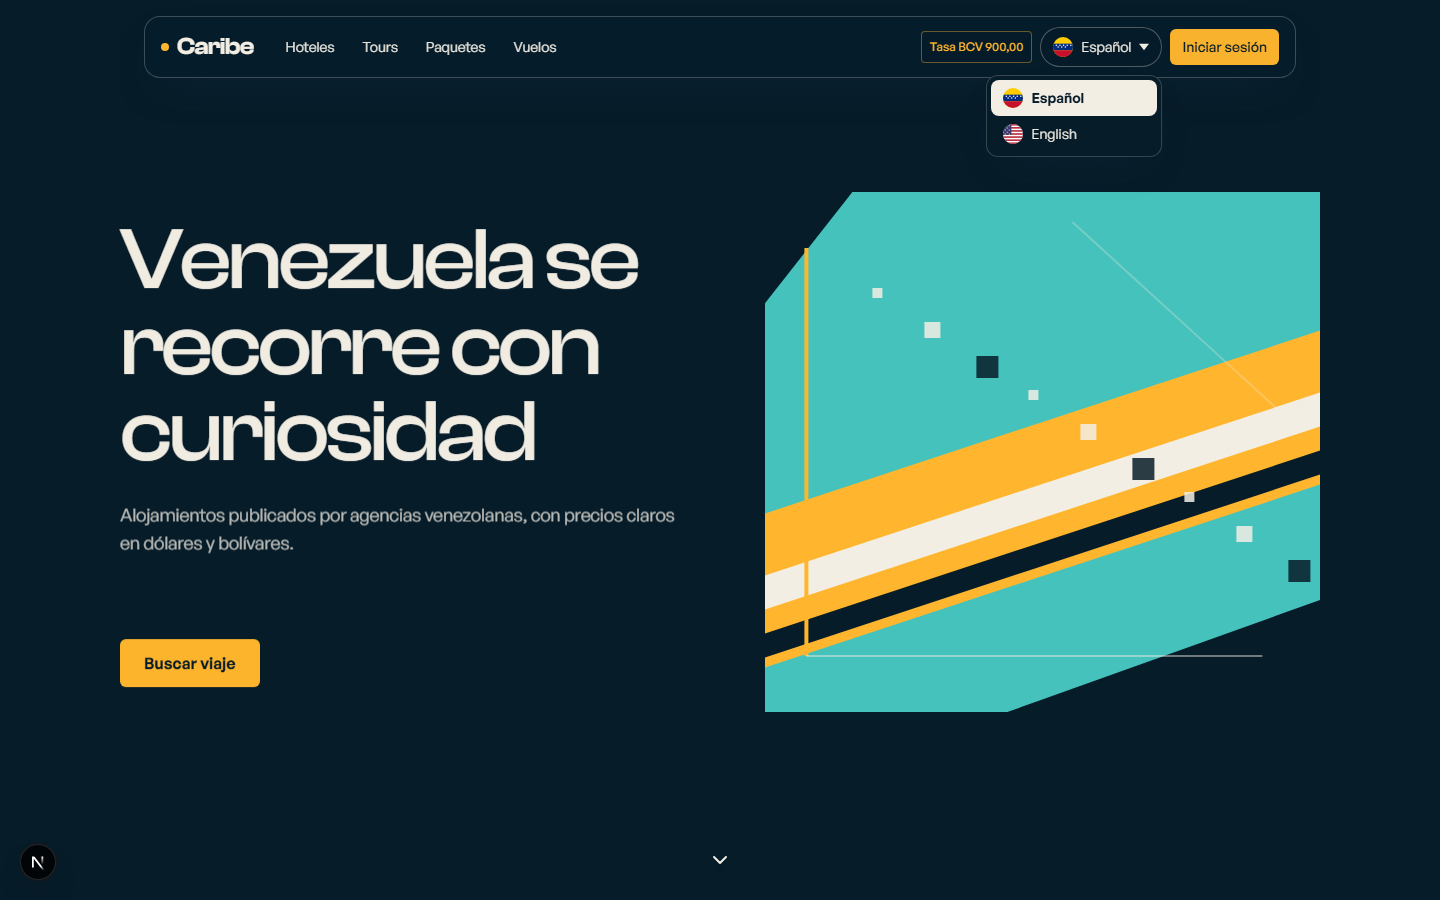
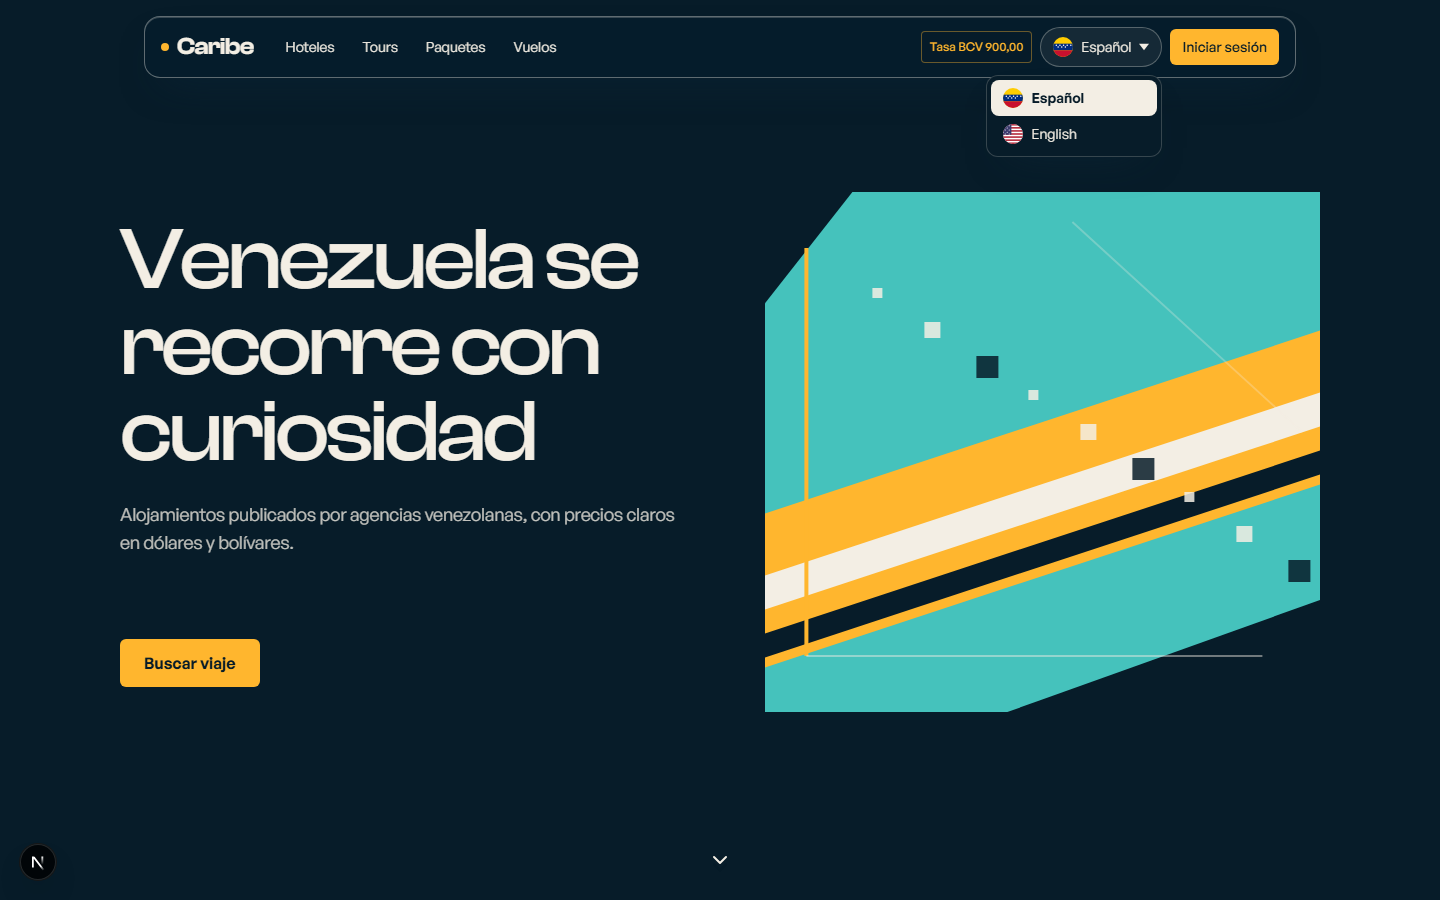
feat(web): hacer responsiva la cabecera y reforzar su glass
Task: T-NAV-17

Changed region(s): [[0.0938, 0.56, 0.4688, 0.6222]]

diff --git a/apps/web/src/app/globals.css b/apps/web/src/app/globals.css
@@ -192,17 +192,19 @@ body {
 .site-header {
   position: fixed;
   inset-block-start: 1rem;
-  inset-inline: 0;
+  inset-inline: clamp(0.5rem, 2vw, 1.5rem);
   z-index: 50;
   pointer-events: none;
 }
 
 .site-bar {
   pointer-events: auto;
-  border: 1px solid color-mix(in srgb, var(--color-bone) 18%, transparent);
+  border: 1px solid color-mix(in srgb, var(--color-bone) 32%, transparent);
   border-radius: 1rem;
   background-color: var(--color-ink);
-  box-shadow: 0 18px 40px -20px rgb(14 42 61 / 0.65);
+  box-shadow:
+    inset 0 1px 0 color-mix(in srgb, var(--color-bone) 22%, transparent),
+    0 18px 40px -20px rgb(14 42 61 / 0.65);
   transition:
     background-color var(--duration-chrome) var(--ease-caribe),
     border-color var(--duration-chrome) var(--ease-caribe),
@@ -211,7 +213,7 @@ body {
 
 @supports ((backdrop-filter: blur(1px)) or (-webkit-backdrop-filter: blur(1px))) {
   .site-bar {
-    border-color: color-mix(in srgb, var(--color-bone) 24%, transparent);
+    border-color: color-mix(in srgb, var(--color-bone) 38%, transparent);
     -webkit-backdrop-filter: blur(20px) saturate(140%);
     backdrop-filter: blur(20px) saturate(140%);
   }
@@ -235,14 +237,52 @@ body {
   }
 }
 
+.site-menu-icon line {
+  transform-box: fill-box;
+  transform-origin: center;
+  transition: transform var(--duration-chrome) var(--ease-caribe);
+}
+
+.site-menu[data-open="true"] .site-menu-icon line:first-child {
+  transform: translateY(4px) rotate(45deg);
+}
+
+.site-menu[data-open="true"] .site-menu-icon line:last-child {
+  transform: translateY(-4px) rotate(-45deg);
+}
+
 @media (max-width: 1023px) {
   .site-tools {
-    display: none;
     order: 3;
+    max-height: 0;
+    padding-top: 0;
+    border-top-width: 0;
+    overflow: hidden;
+    visibility: hidden;
+    opacity: 0;
+    transform: translateY(-8px);
+    transition:
+      max-height var(--duration-chrome) var(--ease-caribe),
+      opacity var(--duration-chrome) var(--ease-caribe),
+      transform var(--duration-chrome) var(--ease-caribe),
+      visibility var(--duration-chrome) var(--ease-caribe);
   }
 
   .site-tools[data-open="true"] {
-    display: flex;
+    max-height: 70dvh;
+    padding-top: 0.75rem;
+    border-top-width: 1px;
+    overflow-y: auto;
+    visibility: visible;
+    opacity: 1;
+    transform: none;
+  }
+}
+
+@media (prefers-reduced-motion: reduce) {
+  .site-menu-icon line,
+  .site-tools {
+    transition: none;
   }
 }
 

diff --git a/apps/web/src/components/header-frame.tsx b/apps/web/src/components/header-frame.tsx
@@ -48,12 +48,25 @@ export function HeaderFrame({
         {brand}
         <button
           type="button"
-          className="site-menu ms-auto h-11 rounded-full border border-bone/30 px-4 text-sm font-medium text-bone transition-colors duration-300 hover:bg-bone/10 lg:hidden"
+          className="site-menu ms-auto inline-flex size-11 items-center justify-center rounded-full border border-bone/30 text-bone transition-colors duration-300 hover:bg-bone/10 focus-visible:outline-2 focus-visible:outline-offset-2 focus-visible:outline-amber lg:hidden"
+          aria-label={menuLabel}
           aria-expanded={menuOpen}
           aria-controls="site-tools"
+          data-open={menuOpen ? "true" : "false"}
           onClick={() => setMenuOpen((open) => !open)}
         >
-          {menuLabel}
+          <svg
+            aria-hidden="true"
+            viewBox="0 0 24 24"
+            className="site-menu-icon size-6"
+            fill="none"
+            stroke="currentColor"
+            strokeWidth="2"
+            strokeLinecap="round"
+          >
+            <line x1="4" y1="8" x2="20" y2="8" />
+            <line x1="4" y1="16" x2="20" y2="16" />
+          </svg>
         </button>
         <div
           id="site-tools"

diff --git a/openspec/changes/f1-navigation-refresh/specs/web-ui/spec.md b/openspec/changes/f1-navigation-refresh/specs/web-ui/spec.md
@@ -187,6 +187,49 @@ productos, acceso a sesión, selector de idioma y badge BCV.
 - WHEN se renderiza
 - THEN aparecen el badge BCV, el selector de idioma y «Iniciar sesión» (o «Mis viajes» con sesión) junto a los enlaces de productos
 
+### Requirement: Cabecera responsiva con glass definido
+
+La cabecera SHALL conservar un margen lateral en todos los anchos, SHALL usar un botón de menú con
+icono de hamburgesa en móvil y SHALL mostrar sus opciones en vertical al abrirlo. La superficie
+SHALL ser semitransparente con desenfoque, borde visible y realce interior para distinguirse de un
+fondo de color parecido, sin perder contraste AA.
+
+#### Scenario: Cabecera estrecha
+- GIVEN una ventana de 360px o menos de ancho
+- WHEN se renderiza la cabecera
+- THEN la barra no toca los bordes del viewport y conserva esquinas redondeadas
+- THEN el botón de menú muestra un icono de hamburgesa con etiqueta accesible
+
+#### Scenario: Menú vertical
+- GIVEN el menú móvil cerrado
+- WHEN se activa el botón de hamburgesa
+- THEN las opciones de producto, sesión, idioma y tasa aparecen apiladas en vertical
+- THEN el botón cambia su estado accesible y el icono pasa a cerrar
+
+#### Scenario: Borde de glass
+- GIVEN la cabecera sobre un fondo del mismo color
+- WHEN se renderiza
+- THEN el fondo es translúcido con desenfoque y el borde de 1px con realce interior es visible
+- THEN el texto sigue cumpliendo los escenarios de contraste AA
+
+### Requirement: Gesto de cambio de sección animado
+
+Las flechas de bajada SHALL ofrecer una respuesta visual al pulsarlas y SHALL desplazarse a la
+sección destino con una transición suave cuando el usuario no pide movimiento reducido. En pantallas
+pequeñas SHALL permanecer dentro del viewport y por encima de la zona segura inferior.
+
+#### Scenario: Pulsación de la flecha
+- GIVEN una flecha de bajada visible
+- WHEN se pulsa
+- THEN el control cambia de estado visual y el desplazamiento hacia la sección es gradual
+- THEN con movimiento reducido el salto es inmediato pero el estado pulsado sigue siendo visible
+
+#### Scenario: Flecha en móvil
+- GIVEN una ventana de 360x640
+- WHEN se muestra una flecha de bajada
+- THEN el control mide al menos 44x44px y queda dentro del viewport
+- THEN no queda tapado por la zona segura inferior del dispositivo
+
 ### Requirement: Contraste AA verificable
 
 Todos los textos visibles de la web pública SHALL cumplir WCAG AA en tema claro y oscuro usando

diff --git a/openspec/changes/f1-navigation-refresh/tasks.md b/openspec/changes/f1-navigation-refresh/tasks.md
@@ -29,6 +29,10 @@ Una tarea a la vez. Capturas de escritorio y móvil antes de cada commit en
   Prueba: escenario «Secciones a pantalla completa» de `specs/web-ui/spec.md`; `verify:navigation`; capturas de portada en escritorio y móvil; lint, typecheck y tests en verde.
 - [x] T-NAV-16 Suavizar las transiciones de entrada, revelación y cabecera de la portada con degradación segura bajo movimiento reducido.
   Prueba: escenario «Transiciones suaves» de `specs/web-ui/spec.md`; capturas de portada en escritorio y móvil; lint, typecheck y tests en verde.
+- [x] T-NAV-17 Hacer la cabecera responsiva: margen lateral en móvil, menú hamburguesa con opciones verticales y glass con borde y realce interior.
+  Prueba: escenarios «Cabecera estrecha», «Menú vertical» y «Borde de glass» de `specs/web-ui/spec.md`; capturas de cabecera en escritorio y móvil; `verify:navigation` y `verify:contrast`; lint, typecheck y tests en verde.
+- [ ] T-NAV-18 Animar la pulsación de las flechas de sección y revisar su tamaño y zona segura en móvil, con degradación segura bajo movimiento reducido.
+  Prueba: escenarios «Pulsación de la flecha» y «Flecha en móvil» de `specs/web-ui/spec.md`; `verify:navigation`; capturas de portada en móvil; lint, typecheck y tests en verde.
 - [x] T-NAV-8 Corregir el contraste de los pares gris sobre blanco con tokens aprobados, añadir `verify:contrast` con Playwright y crear el workflow de CI que lo ejecute.
   Prueba: escenarios «Contraste AA verificable» de `specs/web-ui/spec.md`; capturas claras y oscuras en escritorio y móvil; lint, typecheck y tests en verde.
 - [x] T-NAV-9 Hacer real «Iniciar sesión» y construir `/account/trips` con reservas de `GET /api/v1/bookings`, estados accesibles y nota honesta sobre documentos.

diff --git a/openspec/changes/f1-navigation-refresh/design.md b/openspec/changes/f1-navigation-refresh/design.md
@@ -67,7 +67,15 @@ La cabecera deja de ser una franja anclada al borde: `HeaderFrame` centra una ba
 transparent)` y `backdrop-filter: blur(20px)`. El wordmark queda a la izquierda; a la derecha se
 agrupan los enlaces de productos, el badge, el selector y la sesión. En móvil el botón «Menú»
 despliega el mismo contenido debajo de la barra. El `scroll-margin-top` de las anclas se mantiene
-para que la barra flotante no tape los encabezados.
+para que la barra flotante no tape los encabezados. La barra conserva `inset-inline` en móvil para
+no pegarse a los bordes; el botón móvil pasa a un SVG de hamburgesa con `aria-label` traducido y
+`aria-expanded`, y el icono se transforma en cruz al abrir. El contenido desplegado sigue apilado en
+vertical. La superficie añade un borde de 1px con mayor opacidad y un realce interior (`inset 0 1px
+0`) tipo glass de iOS; el fondo se mantiene sobre `ink` para no romper el contraste AA.
+
+Las flechas de sección mantienen el ancla nativa y `scroll-behavior: smooth`, pero añaden un estado
+`:active` visible y una animación suave del icono que se detiene con `prefers-reduced-motion`. El
+tamaño mínimo es 44x44px y la separación inferior respeta `env(safe-area-inset-bottom)`.
 
 `LanguageSwitcher` es un desplegable accesible (`button[role=combobox]` + `ul[role=listbox]`)
 con dos banderas SVG locales en `public/images/flags/` (Venezuela para `es`, Estados Unidos para
